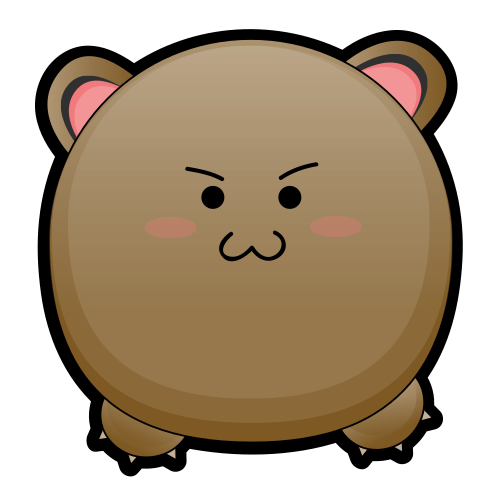
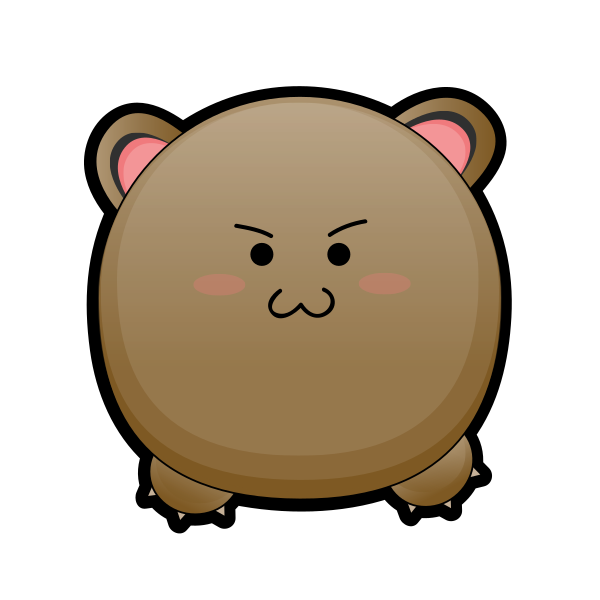
:pig: :mortar_board: :loop:

diff --git a/src/main/src/assets.cpp b/src/main/src/assets.cpp
@@ -12,11 +12,16 @@ ShaderProgram quadShader;
 ShaderProgram groundShader;
 std::vector<Texture2D*> faces;
 std::vector<std::string> facePaths = {
-    {"awesomeface.png"},
     {"A.png"},
     {"B.png"},
     {"C.png"},
-    {"D.png"}
+    {"D.png"},
+    {"E.png"},
+    {"F.png"},
+    {"G.png"},
+    {"H.png"},
+    {"I.png"},
+    {"J.png"}
 };
 Texture2D* groundTexture;
 Texture2D* grassTexture;

diff --git a/src/main/src/player.cpp b/src/main/src/player.cpp
@@ -76,5 +76,5 @@ void Player::update() {
 
 void Player::draw() {
     Texture2D* face = faces[faceIndex(letter)];
-    drawQuad(*face, getPosition(), 1.3f, getAngle()/4);
+    drawQuad(*face, getPosition(), 1.6f, getAngle()/8);
 }
